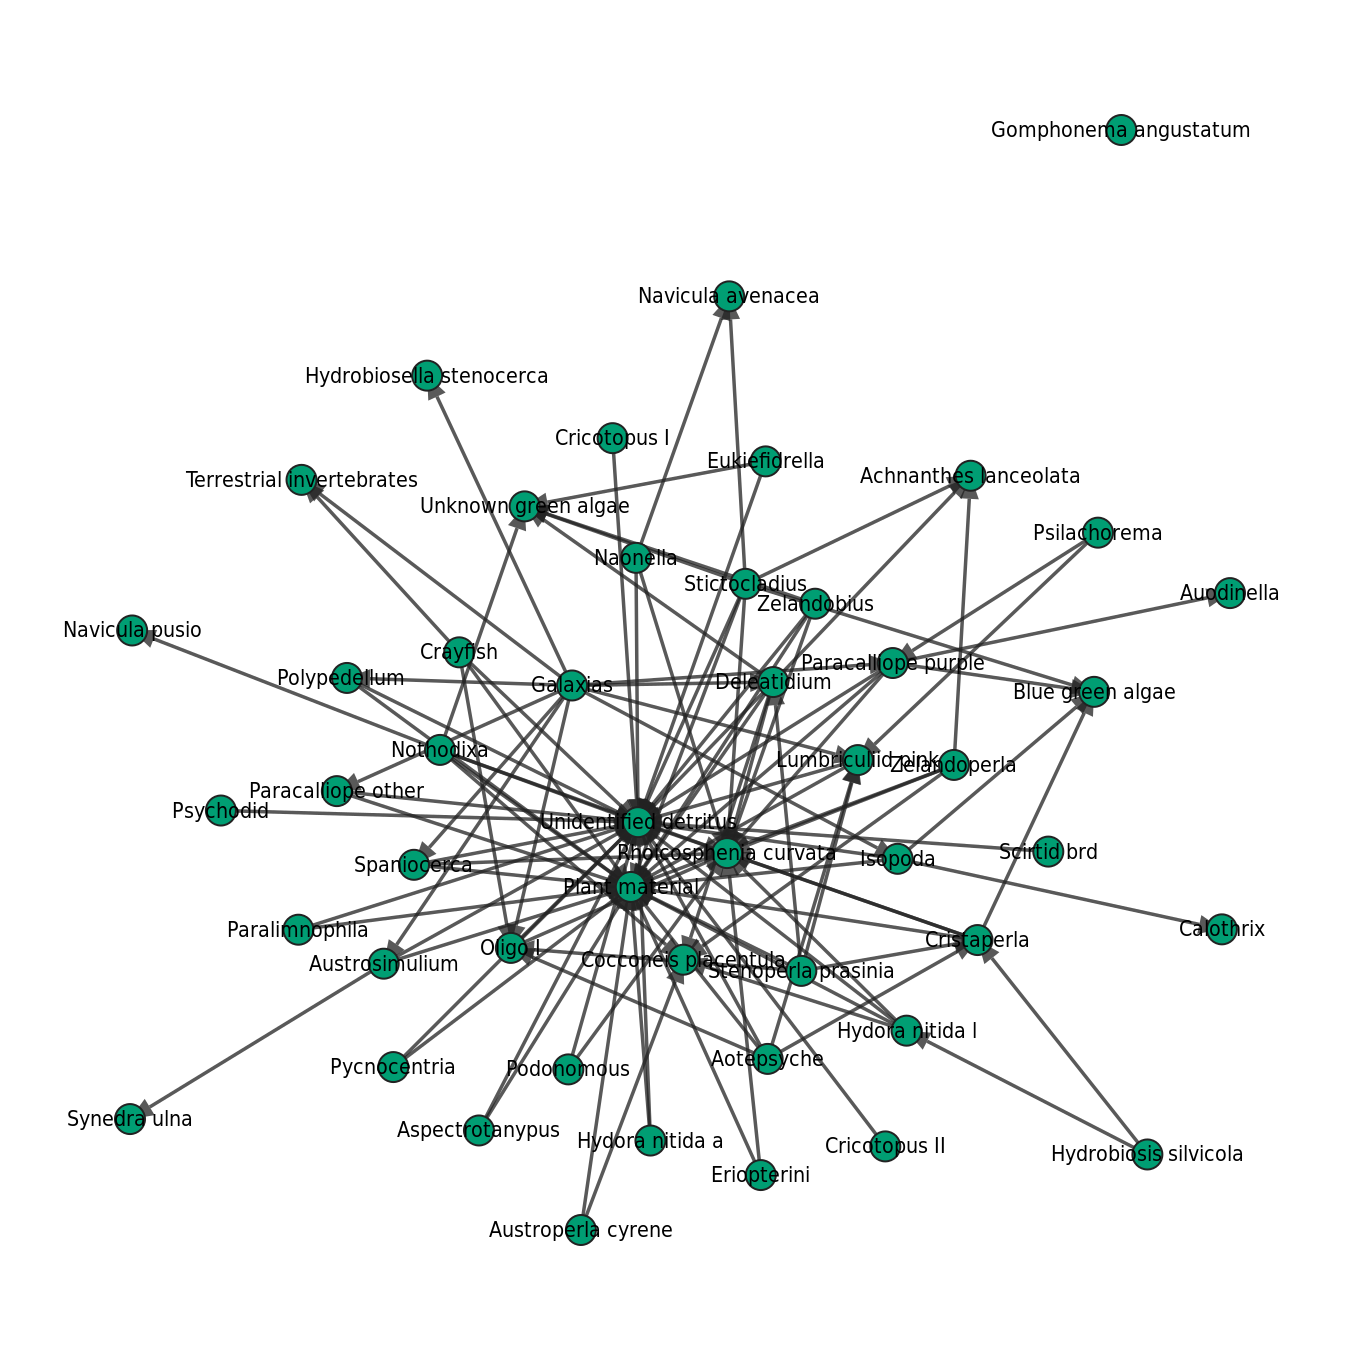
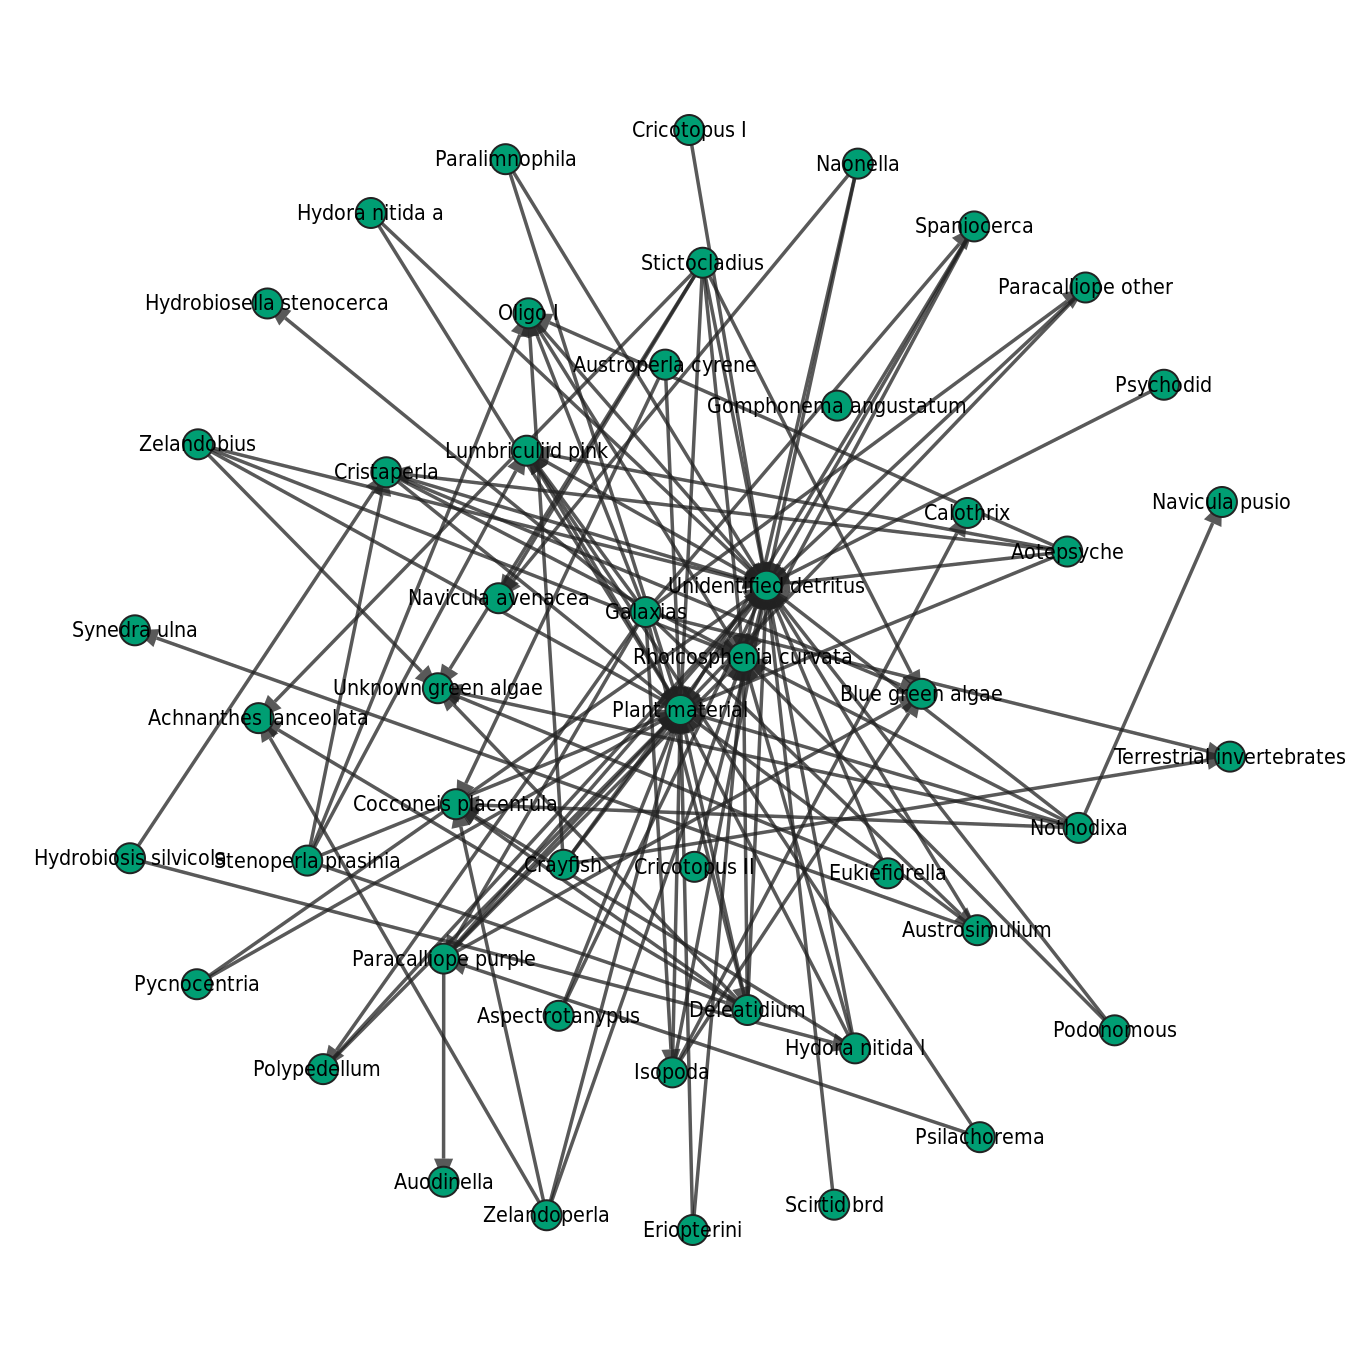
:hand: plots

diff --git a/docs/casestudies/specificity.md b/docs/casestudies/specificity.md
@@ -18,30 +18,9 @@ degree(N, 1)
 ````
 
 
-````
-Dict{String,Int64} with 25 entries:
-  "Pseudomyrmex concolor"         => 2
-  "Azteca isthmica"               => 4
-  "Azteca schummani"              => 2
-  "Solenops A"                    => 2
-  "Pseudomyrmex nigrescens"       => 2
-  "Crematogaster B"               => 3
-  "Crematogaster C"               => 2
-  "Azteca D"                      => 1
-  "Allomerus aff. Octoarticulata" => 3
-  "Azteca G"                      => 3
-  "Azteca TO"                     => 1
-  "Crematogaster D"               => 2
-  "Pheidole minutula"             => 3
-  "Azteca polymorpha"             => 1
-  "Camponotus balzanii"           => 1
-  "Allomerus D"                   => 1
-  "Crematogaster A"               => 4
-  "Azteca Q"                      => 1
-  "Azteca HC"                     => 1
-  ⋮                               => ⋮
-````
-
+<pre class="julia-error">
+ERROR: InterruptException:
+</pre>
 
 
 
@@ -65,7 +44,7 @@ interactions, and more species with a single interaction.
 
 Species degree is not really scaled -- it can vary between 0 and 1. For this
 reason, we will look at measures of specificity instead. `EcologicalNetwork`
-follows the guidelines of @PoiCan12, and 
+follows the guidelines of @PoiCan12, and
 
 An analog to degree is the *resource range*, which returns 0 when a species
 interacts will all possible partners, and 1 when it has a single partner.

diff --git a/docs/manual/plots.md b/docs/manual/plots.md
@@ -59,10 +59,6 @@ circular_network_plot(N; filename=joinpath(working_path, "circular_fg96.png"));
 ````
 
 
-<pre class="julia-error">
-ERROR: InterruptException:
-</pre>
-
 
 
 
@@ -106,13 +102,9 @@ coefficient of repulsion [@McG12]. The defaults values of `L=50` and `R=0.05`
 give generally sensible results:
 
 ````julia
-graph_network_plot(N; filename=joinpath(working_path, "graph_fc96.png"), steps=10000);
+graph_network_plot(N; filename=joinpath(working_path, "graph_fg96.png"), steps=1000);
 ````
 
-
-<pre class="julia-error">
-ERROR: InterruptException:
-</pre>
 
 
 
@@ -120,13 +112,9 @@ ERROR: InterruptException:
 ![Circular layout](/figures/graph_fg96.png)
 
 ````julia
-graph_network_plot(U; filename=joinpath(working_path, "graph_ttc.png"), steps=10000);
+graph_network_plot(U; filename=joinpath(working_path, "graph_ttc.png"), steps=1000);
 ````
 
-
-<pre class="julia-error">
-ERROR: InterruptException:
-</pre>
 
 
 
